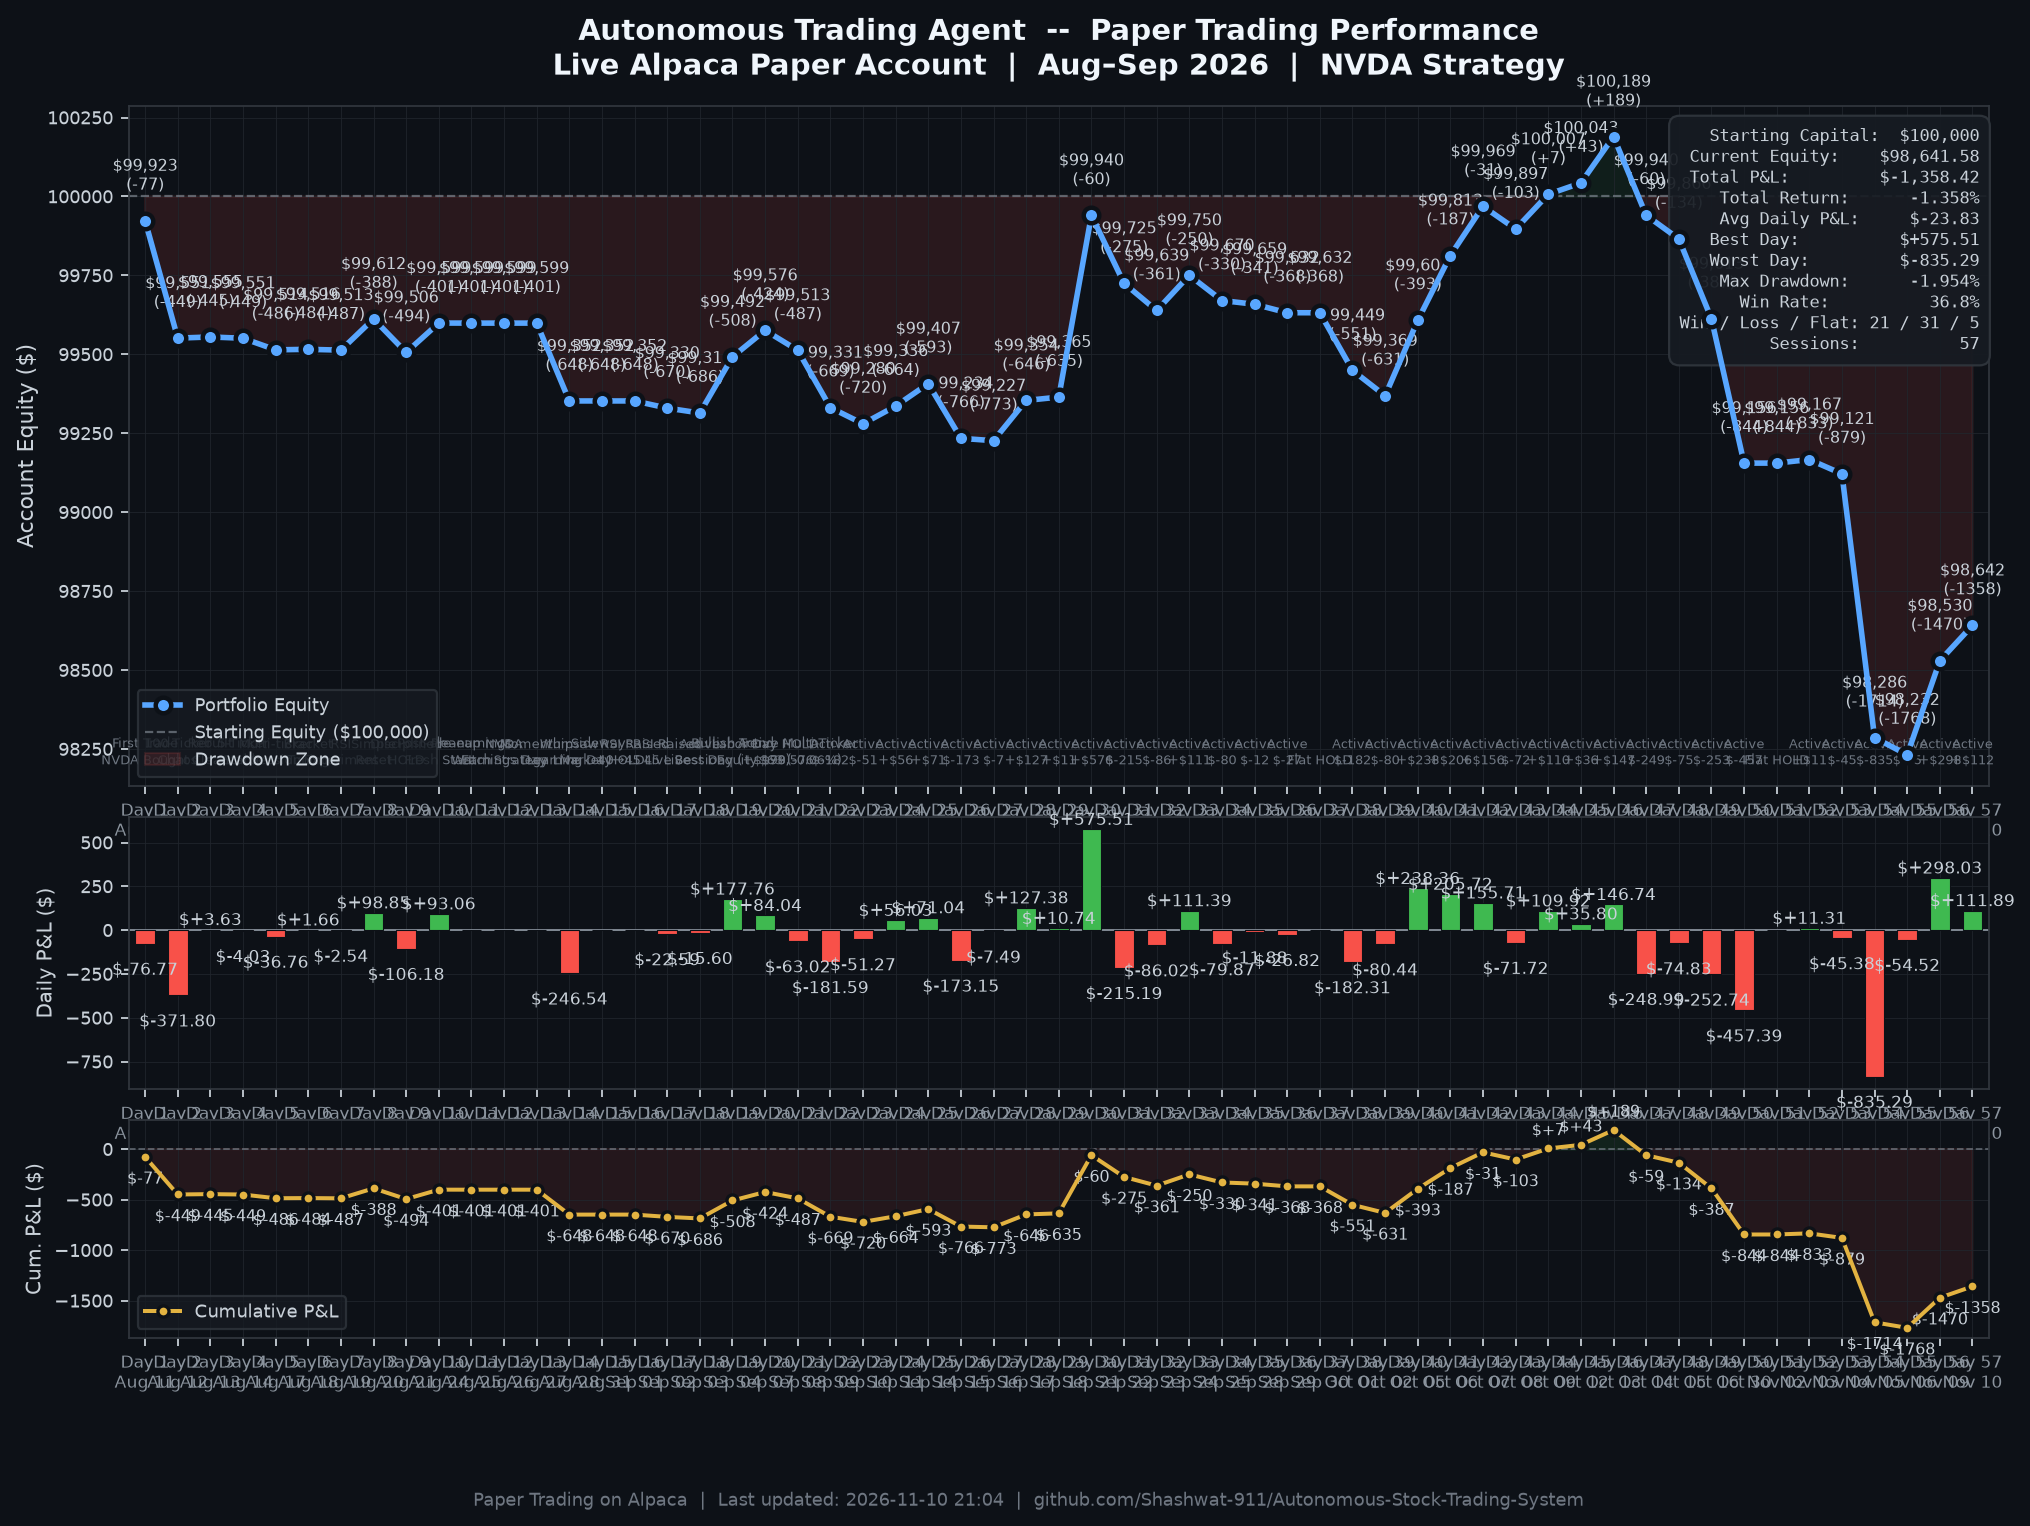
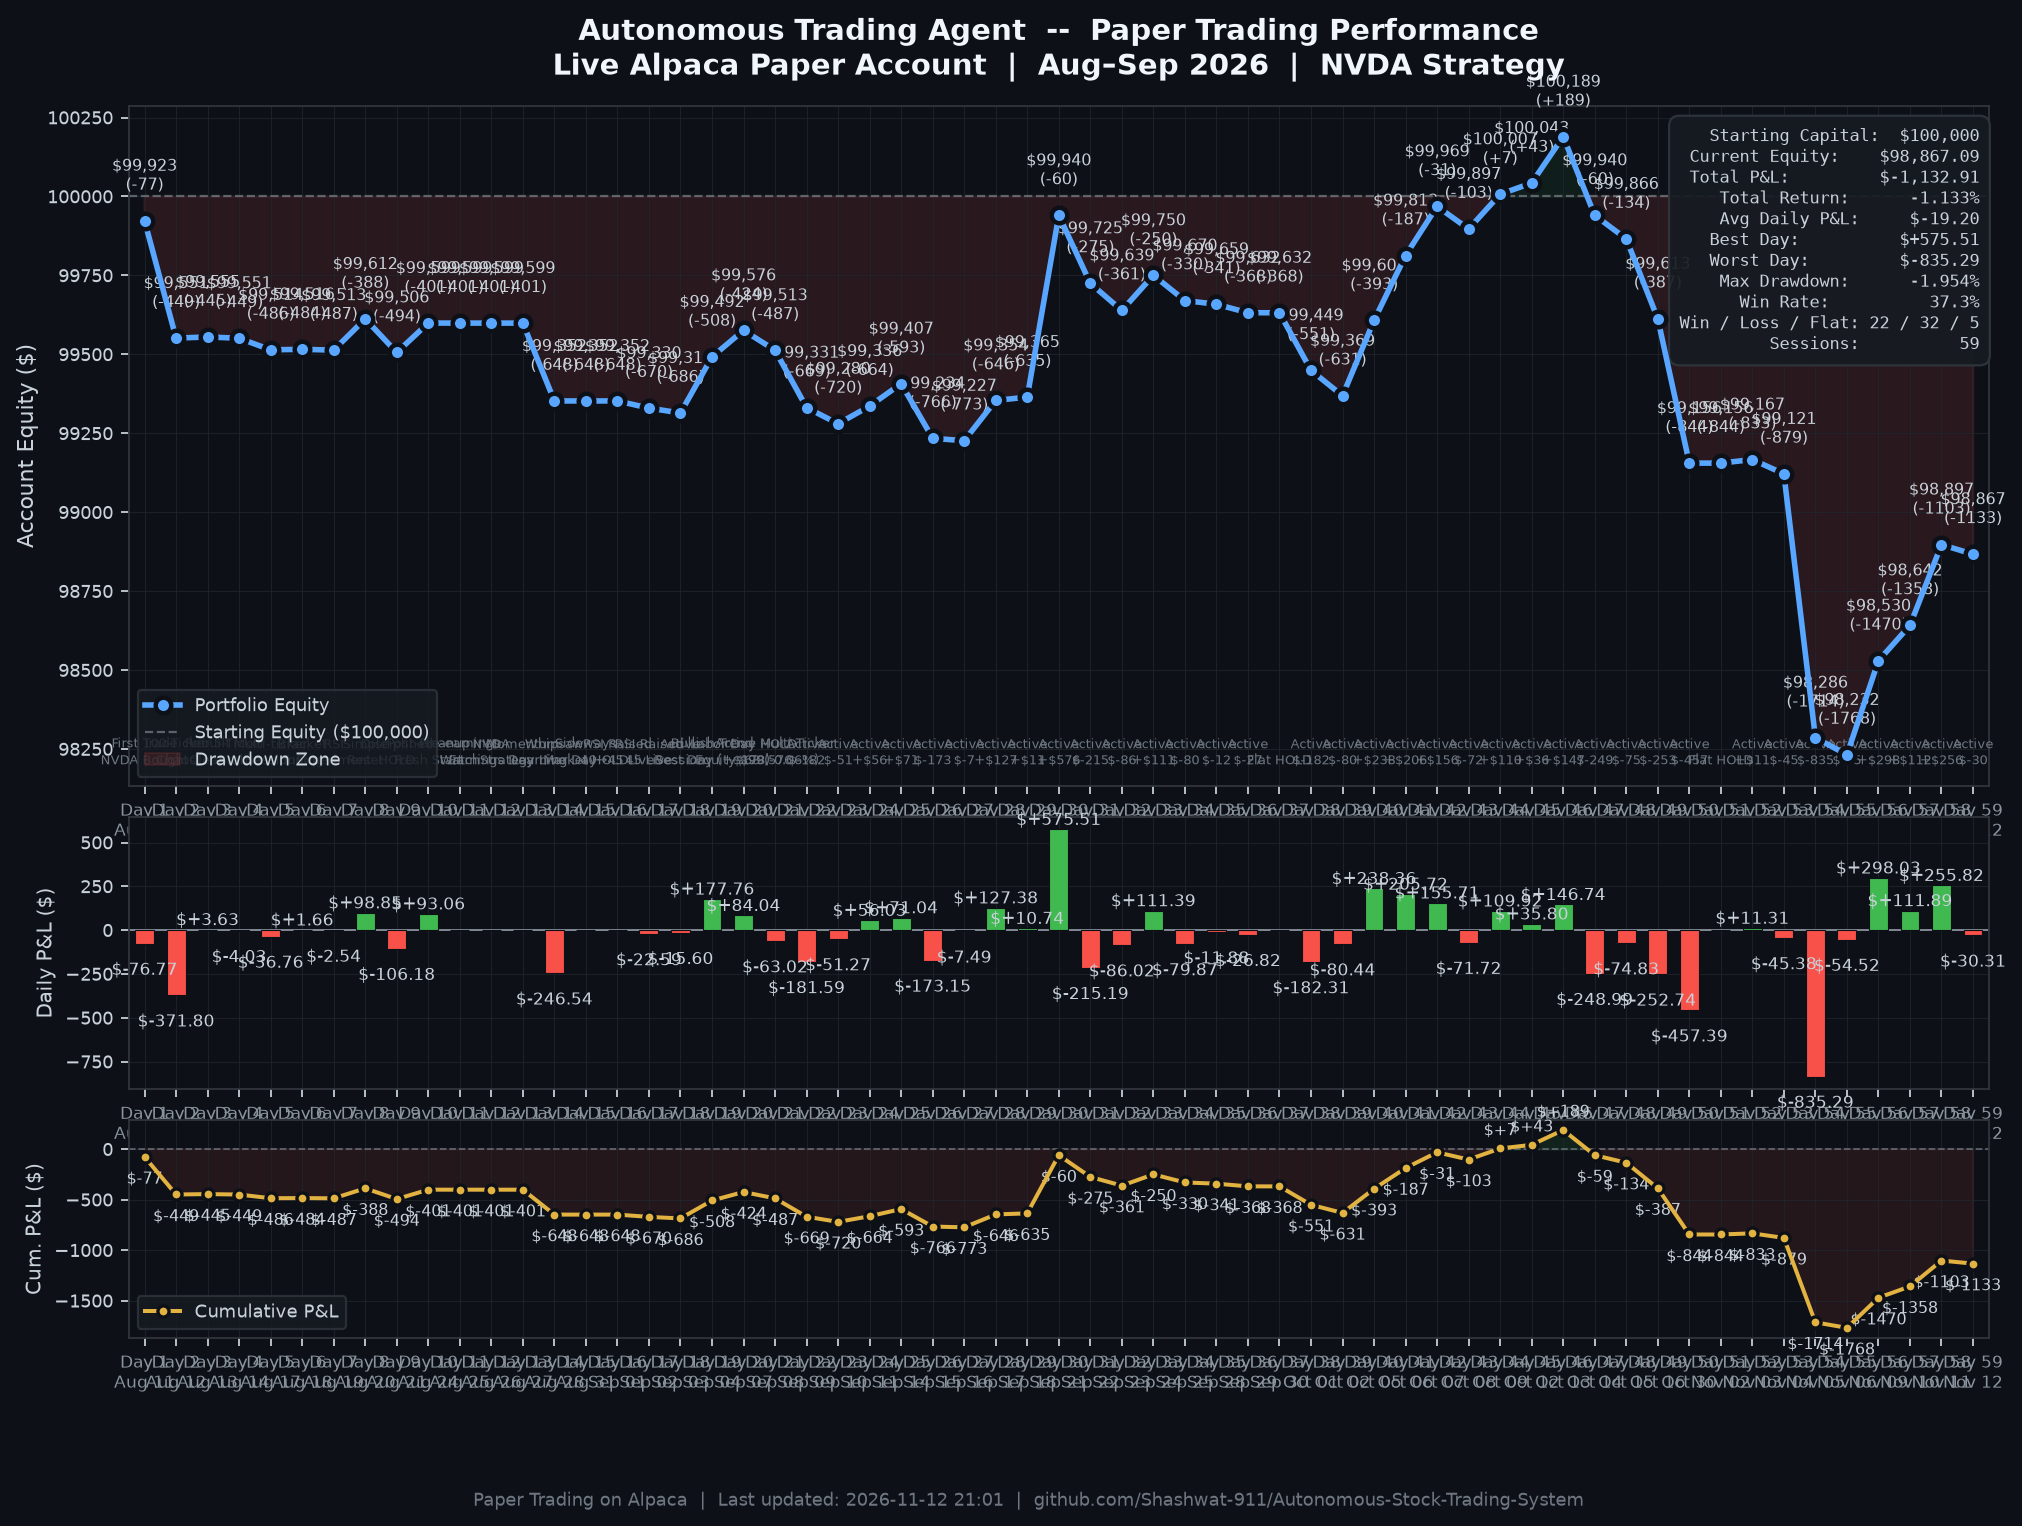
auto(session): 2026-11-12 | equity=$98,867 | return=-1.133%

diff --git a/README.md b/README.md
@@ -47,7 +47,7 @@ The automated trading bot is deployed in the cloud on Render with continuous mon
 
 > **Paper Trading on Alpaca** | Started: Aug 11, 2026 | Initial Capital: $100,000.00 | Universe: NVDA, TSLA, META, MSFT, AAPL (5-Stock High-Momentum Universe)
 
-![Daily P&L Chart](outputs/daily_pnl_chart.png?v=20261110)
+![Daily P&L Chart](outputs/daily_pnl_chart.png?v=20261112)
 
 *Chart auto-generated from live Alpaca Portfolio History API and verified session telemetry via [`scripts/generate_pnl_chart.py`](scripts/generate_pnl_chart.py).*
 
@@ -112,8 +112,10 @@ The automated trading bot is deployed in the cloud on Render with continuous mon
 | **Day 55** | Nov 06 (Fri) | $98,231.66 | -$54.52 | -$1768.34 | -1.768% | Active Session (-$54.52) |
 | **Day 56** | Nov 09 (Mon) | $98,529.69 | **+$298.03** | -$1470.31 | -1.470% | Profitable Session (+$298.03) |
 | **Day 57** | Nov 10 (Tue) | $98,641.58 | **+$111.89** | -$1358.42 | -1.358% | Profitable Session (+$111.89) |
+| **Day 58** | Nov 11 (Wed) | $98,897.40 | **+$255.82** | -$1102.60 | -1.103% | Profitable Session (+$255.82) |
+| **Day 59** | Nov 12 (Thu) | $98,867.09 | -$30.31 | -$1132.91 | -1.133% | Active Session (-$30.31) |
 
-> **Current Equity**: $98,641.58 | **Total P&L**: $-1,358.42 | **Best Day**: $+575.51 | **Win Rate**: 36.8% (21W / 31L / 5 Flat) | **Max Drawdown**: -1.768% | **Sessions**: 57
+> **Current Equity**: $98,867.09 | **Total P&L**: $-1,132.91 | **Best Day**: $+575.51 | **Win Rate**: 37.3% (22W / 32L / 5 Flat) | **Max Drawdown**: -1.768% | **Sessions**: 59
 ---
 
 ## System Architecture
